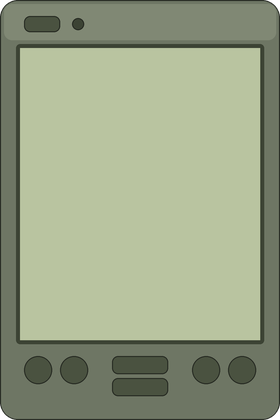
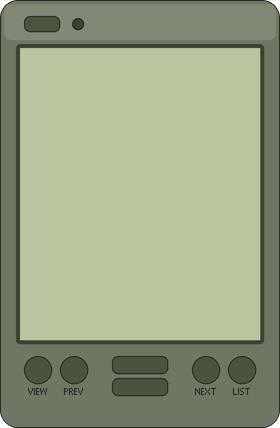
The organiser follows Palm's own rules: title bar, margins, labelled keys
Bigger by default (four fifths of the window height at a whole-number scale),
a dark title bar naming the view with the record count, scroll arrows in the
right margin, a command line at the foot, and the window's filing furniture
left out of a pocket screen.

Changed region(s): [[0.0571, 0.7738, 0.9429, 0.9595], [0.0571, 0.0929, 0.9429, 0.1238]]

diff --git a/tools/build_organiser_art.py b/tools/build_organiser_art.py
@@ -20,20 +20,23 @@ Outputs (generated, committed):
     mod/common/media/ui/CFOrg/led_<scale>x.png      the light, lit
     .../lua/shared/ConspiracyFiles/Generated/OrganiserCase.lua
 """
-from PIL import Image, ImageDraw
+from PIL import Image, ImageDraw, ImageFont
 import os
 
 HERE = os.path.dirname(os.path.abspath(__file__))
 REPO = os.path.dirname(HERE)
 OUT = os.path.join(REPO, "mod/common/media/ui/CFOrg")
 LUA = os.path.join(REPO, "mod/common/media/lua/shared/ConspiracyFiles/Generated/OrganiserCase.lua")
-SCALES = (2, 3)
+SCALES = (2, 3, 4)
 SS = 4                      # supersample, so curves are smooth at every scale
 
-W, H = 140, 210             # the case, in native pixels
+W, H = 140, 214             # the case, in native pixels
 GLASS = (10, 24, 120, 146)  # x, y, w, h - nearly square, as a Palm's was
 BTN = 14                    # round button diameter
 BTNS = {"MODE": (12, 178), "PREV": (30, 178), "NEXT": (96, 178), "INDEX": (114, 178)}
+# Palm's own buttons carried a label under the key; the guidelines call for the
+# frequent commands to be one press, named, not hidden in a menu.
+LABELS = {"MODE": "VIEW", "PREV": "PREV", "NEXT": "NEXT", "INDEX": "LIST"}
 ROCKER = (56, 178, 28, 9)   # x, y, w, h of the upper half; lower half sits 11 below
 ROCKER_GAP = 11
 POWER = (12, 8, 18, 8)
@@ -68,6 +71,12 @@ def draw_case(scale):
     for _, (bx, by) in BTNS.items():
         bx, by = bx * s, by * s
         d.ellipse([bx, by, bx + BTN * s, by + BTN * s], fill=DEEP, outline=EDGE, width=max(1, s // 2))
+    # Labels, in the device's own face, under each key.
+    face = ImageFont.truetype(os.path.join(REPO, "mod/common/media/fonts/palm-os.otf"), 16 * s // 2)
+    for name, (bx, by) in BTNS.items():
+        label = LABELS[name]
+        tw = face.getlength(label)
+        d.text((bx * s + (BTN * s - tw) / 2, (by + BTN + 1) * s), label, font=face, fill=EDGE)
     # The rocker, two pills.
     rx, ry, rw, rh = [v * s for v in ROCKER]
     for offset in (0, ROCKER_GAP * s):

diff --git a/tools/build_palm_font.py b/tools/build_palm_font.py
@@ -21,8 +21,7 @@ numbers with nearest-neighbour - never re-rendered larger, which would soften
 it. Two sizes, because the zoom key steps between them.
 
 Outputs (generated, committed):
-    mod/common/media/ui/CFOrg/2x/<code>.png   95 glyphs, 22px line
-    mod/common/media/ui/CFOrg/3x/<code>.png   95 glyphs, 33px line
+    mod/common/media/ui/CFOrg/<scale>x/<code>.png   95 glyphs each, scales 2-4
     mod/common/media/lua/shared/ConspiracyFiles/Generated/OrganiserFont.lua
 """
 from PIL import Image, ImageDraw, ImageFont
@@ -35,7 +34,7 @@ UI = os.path.join(REPO, "mod/common/media/ui")
 LUA = os.path.join(REPO, "mod/common/media/lua/shared/ConspiracyFiles/Generated/OrganiserFont.lua")
 SIZE = 16              # the point size where this face lands exactly on its grid
 FIRST, LAST = 32, 126
-SCALES = (2, 3)
+SCALES = (2, 3, 4)
 
 def main():
     font = ImageFont.truetype(SRC, SIZE)
@@ -71,7 +70,7 @@ def main():
         f.write("-- in NATIVE pixels, multiplied by the screen's scale; each glyph is a\n")
         f.write("-- texture at media/ui/CFOrg/<scale>x/<code>.png.\n")
         f.write('-- Face: "Palm OS" by Damien Guard, CC BY-SA 3.0 - see CREDITS.md.\n')
-        f.write("local M={first=%d,last=%d,line=%d,ascent=%d,scales={2,3}}\n" % (FIRST, LAST, line, ascent))
+        f.write("local M={first=%d,last=%d,line=%d,ascent=%d,scales={2,3,4}}\n" % (FIRST, LAST, line, ascent))
         f.write("M.w={%s}\n" % ",".join(str(w) for w in widths))
         f.write("""function M.width(text,scale)
  if type(text)~="string" then return 0 end
